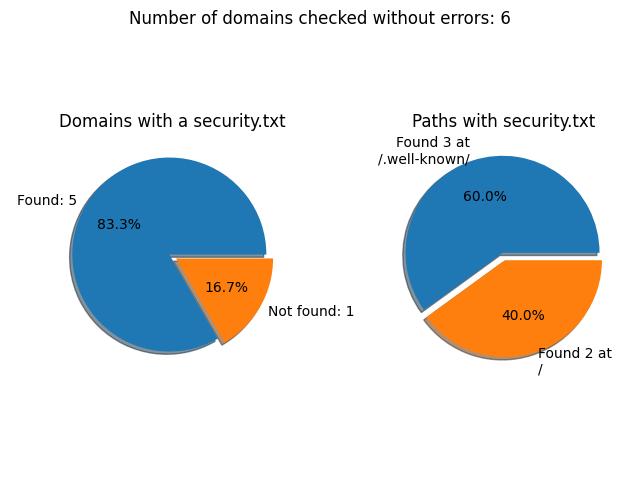
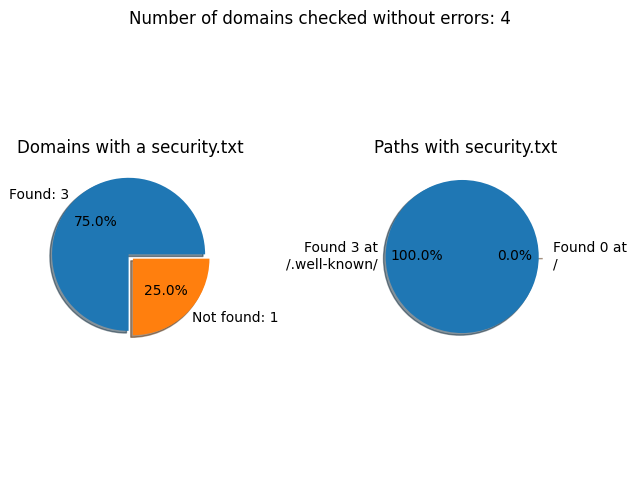
Remove counting path logic for now

Changed region(s): [[0.0312, 0.2188, 1.0, 0.75], [0.0, 0.375, 0.2188, 0.6875], [0.7812, 0.0312, 0.8125, 0.0625]]

diff --git a/scan.py b/scan.py
@@ -44,12 +44,12 @@ def check_for_security_txt(file, verbose, directory):
                 if response.status_code == 200:
                     # Print if verbose is enabled in script options
                     print(f'Found at {url}') if verbose else None
-                    results.append((domain, 'Found', url)
-                                   ) if not found_or_errored else None
+                    results.append((domain, 'Found', url))
                     found_or_errored = True
                     found_counter += 1
                     # Increment the count for this path
                     path_counter[path] += 1
+                    break  # TODO check all Paths
                 else:
                     print(f'Nothing found at {url}') if verbose else None
             # Catch any exceptions that might occur when checking the URL
